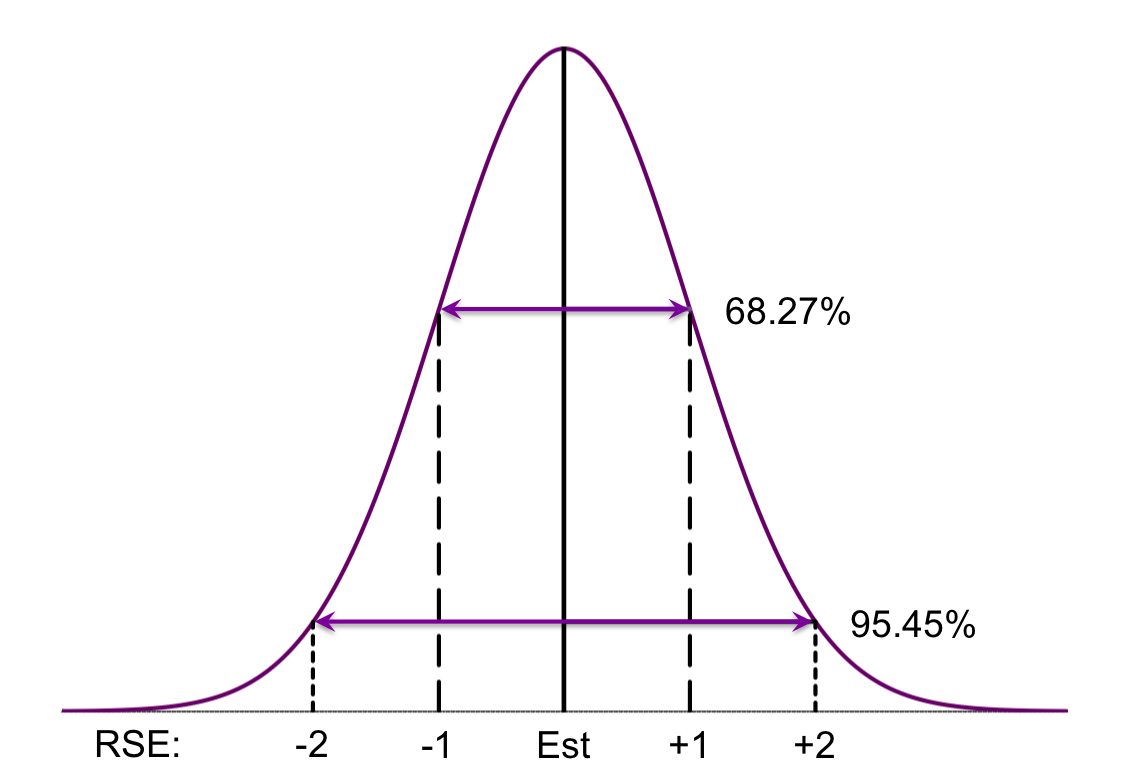
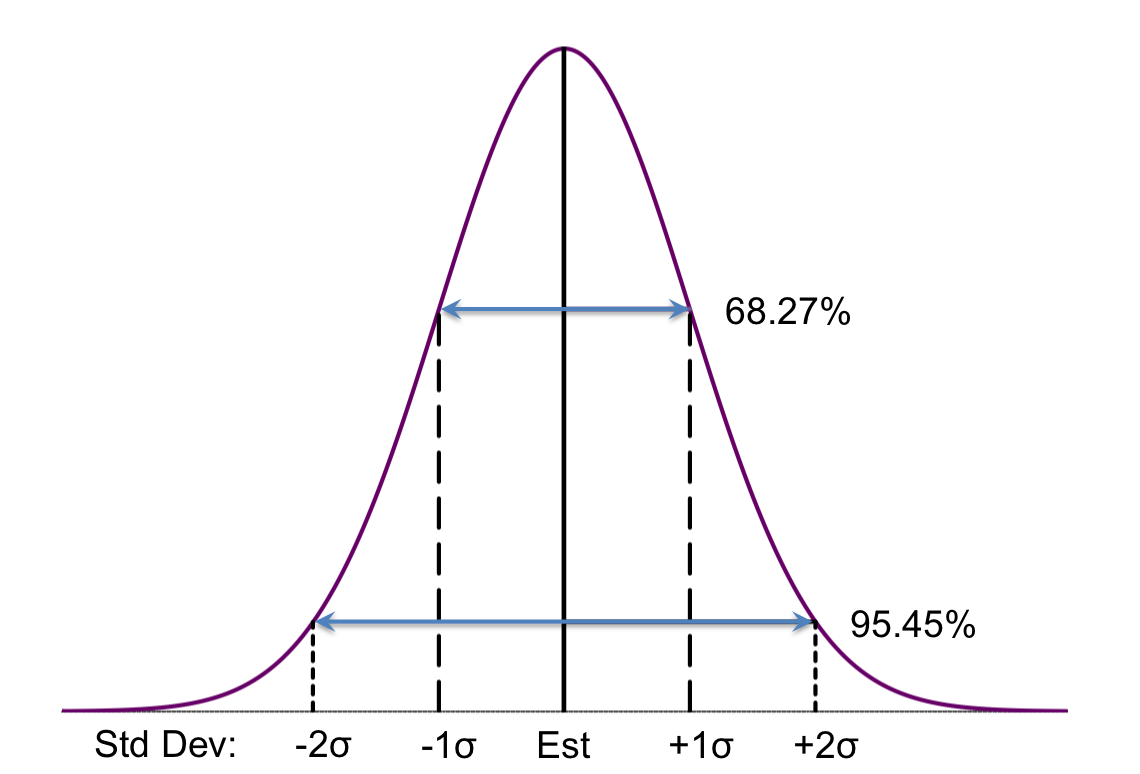
Accuracy docs update

diff --git a/docs/AccuracyPlots.md b/docs/AccuracyPlots.md
@@ -4,20 +4,24 @@ layout: doc_page
 
 ##Accuracy Plots 
 
-When a sketch is constructed with a simple Builder similar to:  
+When a sketch is constructed with code similar to:  
 
 <div class="highlight"><pre><code class="language-text" data-lang="text">int k = 4096;
 UpdateSketch sketch = UpdateSketch.builder().build(k);
+
 // The sketch is fed unique values with a loop similar to
 long u; //the x-coordinate value, the number of uniques to be fed to the sketch
 for (int i=0; i&lt;u; i++) {
   sketch.update(i);
 }
+
 // After all the unique values have been fed to the sketch, the estimate of <i>u</i> is obtained from the sketch
 double est = sketch.getEstimate();
-// The upper and lower bounds at 1 RSE are obtained from the sketch:
+
+// The upper and lower bounds at 1 RSE can be obtained from the sketch:
 double ub = sketch.getUpperBound(1);
 double lb = sketch.getLowerBound(1);
+
 // The rebuild option can be used prior to obtaining the above values or storing the sketch:
 sketch.rebuild();
 </code></pre></div> 
@@ -41,7 +45,7 @@ This means that the plotted x values form an exponential series of the form <i>2
   * Connecting the plotted points with the same quantiles form the lines of the graph
 
 
-The specifics of the above graph:
+The specifics of the above pitchfork graph:
 
 * The sketch type is the Heap QuickSelect Sketch, which is the default sketch.
 * The sketch was configured with <i>k = 1024</i>.
@@ -60,7 +64,7 @@ The specifics of the above graph:
   
 This particular graph also illustrates some other subtle points about this particular sketch.
 
-* The saw-toothed variation in the overall shaped is due to the fact that the QuickSelect sketch only updates its internal theta when the hash table fills up, at which point the sketch uses the QuickSelect algorithm to find the <i>k + 1</i><sup>th</sup> order statistic from the cache, assigns this value to theta, discards all values above theta, and rebuilds the hash table.  
+* The saw-toothed variation in the overall shaped is due to the fact that the QuickSelect sketch only updates its internal theta when the hash table fills up, which occurs when the hash table reaches <i>15k/8</i> (note that the estimation starts at almost 8K), at which point the sketch uses the QuickSelect algorithm to find the <i>(k + 1)</i><sup>th</sup> order statistic from the cache, assigns this value to theta, discards all values above theta, and rebuilds the hash table.  
 * Because the number of valid points nearly reaches <i>2k</i> values means that the Relative Error of the sketch nearly reaches <i>1/sqrt(2k)</i>. The short-dashed lines are drawn at plus and minus <i>1/sqrt(2k)</i>. 
 * This behavior could possibly result in nearly <i>2k</i> values being stored.
 
@@ -69,7 +73,7 @@ This would result in the following graph:
 
 <img class="doc-img-half" src="{{site.docs_img_dir}}QS4KErrorRebuild.png" alt="QS4KErrorRebuild" />
 
-Note that the plus and minus 1 RSE now smoothly moves up to and follows the theoretically computed RSE reference lines.  Because of the extra rebuild at the end the full cycle time of the sketch is a little slower and the average accuracy is a little less.  This is a tradeoff the user can choose to use or not.
+Note that the plus and minus 1 RSE now smoothly moves up to and follows the theoretically computed RSE reference lines and that estimation starts at 4K.  Because of the extra rebuild at the end the full cycle time of the sketch is a little slower and the average accuracy is a little less than without the rebuild.  This is a tradeoff the user can choose to use or not.
 
 Another major sketch family is the Alpha Sketch.  Its pitchfork graph looks like the following:
 
@@ -77,4 +81,4 @@ Another major sketch family is the Alpha Sketch.  Its pitchfork graph looks like
 
 This sketch was also configured with a size of 4K entries, otherwise the defaults.
 The wavy and smooth curves have the same interpretation as the wavy and straight segment lines for the QuickSelect Sketch above.
-However, the short-dashed reference lines are computed at plus and minus <i>1/sqrt(2k)</i>, which means the Alpha Sketch is about 30% more accurate than the QuickSelect Sketch for the same value of <i>k</i>.
+However, the short-dashed reference lines are computed at plus and minus <i>1/sqrt(2k)</i>, which means the Alpha Sketch is about 30% more accurate than the QuickSelect Sketch with rebuild for the same value of <i>k</i>.

diff --git a/docs/Accuracy.md b/docs/Accuracy.md
@@ -10,19 +10,17 @@ Sketch accuracy is usually measured in terms of Relative Error (<i>RE = Measured
 
 <img class="doc-img-half" src="{{site.docs_img_dir}}Normal2.png" alt="Normal2" />
 
-Here the sketch estimate is at the mean and median of the distribution.  Plus/minus one standard deviation (SD) in terms 
-of Relative Error is called the <i>Relative Standard Error (RSE)</i>. 
+The sketch estimator algorithm examines the internal state of the sketch and returns an estimate of the mean of the probability distribution that includes the actual value. When the sketch contains more than a hundred or so values, we can assume that the shape is pretty close to Gaussian due to the Central Limit Theorem.  It is important to understand that the sketch has no idea what the true value is; it only knows the internal state of the sketch. 
+
+From the mathematical theory of these sketches (see <a href="ThetaSketchFramework.pdf">Theta Sketch Framework</a>) we know:
+
+* That the estimate is unbiased.  If you were able to feed the same data into the sketch using <i>T</i> different hash functions, that the average of all <i>T</i> trials will converge on the true answer.
+* That the variance of the estimate across all <i>T</i> trials is &lt; <i>est<sup>2</sup>/(k-1)</i>, where <i>k</i> is the configured size of the sketch. 
+* Dividing the variance by <i>est<sup>2</sup></i> and taking the square root normalizes the error to 
+&lt; <i><span style="white-space: nowrap">1/&radic;<span style="text-decoration:overline;">&nbsp;k - 1&nbsp;</span></span></i>, 
+which is called the <i>Relative Standard Error</i> or RSE.  This corresponds to one standard deviation stated as a fraction between zero and one, which can be translated to a percent error.
+* Because <i>k</i> is a constant, the bounds of <i>Relative Error</i> of a sketch is constant. 
 
 The area under the curve of the Standard Normal (Gaussian) Distribution is defined to be 1.0.
-The fractional area between two points on the X-axis is referred to as the <i>confidence level</i>.  
-Thus, the confidence level (the fractional area) between plus 1 RSE and minus 1 RSE is 68.27% and
-the confidence level between plus 2 RSE and minus 2 RSE is 95.4%. 
-
-There are three fundamentally different sketch families in this library: the <i>QuickSelect</i>, <i>Alpha</i> and <i>HLL</i> families. The QuickSelect family is the default. 
-
-
-
-
-
-
+The fractional area between two points on the X-axis is referred to as the <i>confidence level</i>. Thus, the confidence level (the fractional area) between plus 1 RSE and minus 1 RSE is 68.27% and the confidence level between plus 2 RSE and minus 2 RSE is 95.4%. 
 

diff --git a/docs/MergingAlgorithm.md b/docs/MergingAlgorithm.md
@@ -41,5 +41,3 @@ Note: to avoid extreme verbosity in the above, the phrase
 is used as an abbreviation for the more accurate phrase 
 "the X smallest elements of S if |S| >= X, otherwise all of S".
 
-ESA Paper:  <Need link>
-
